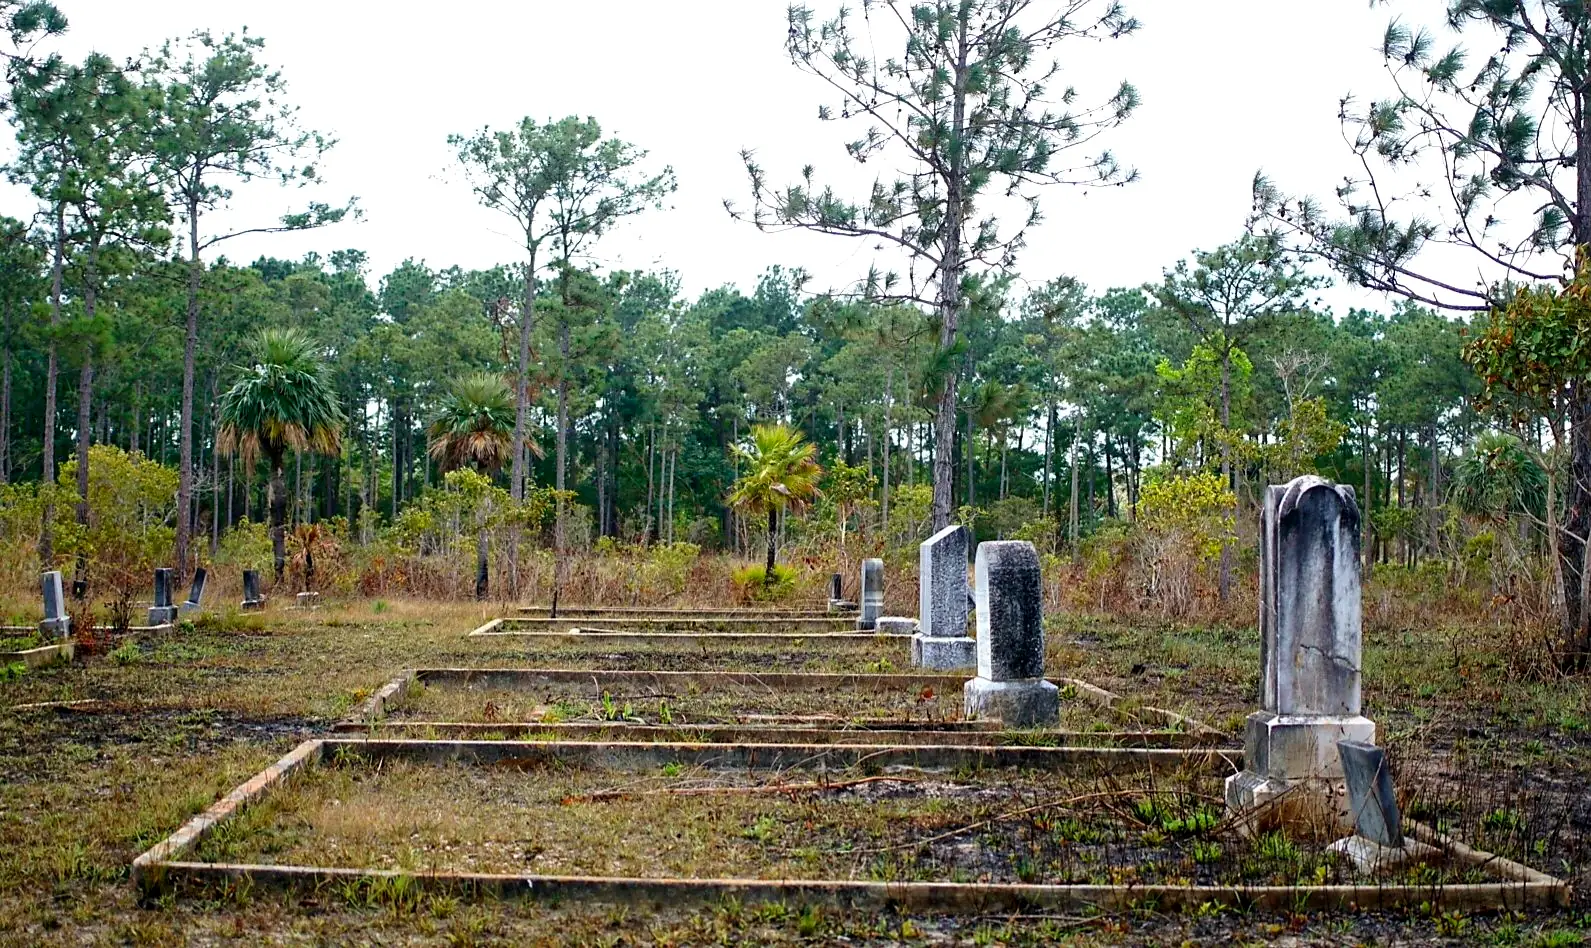
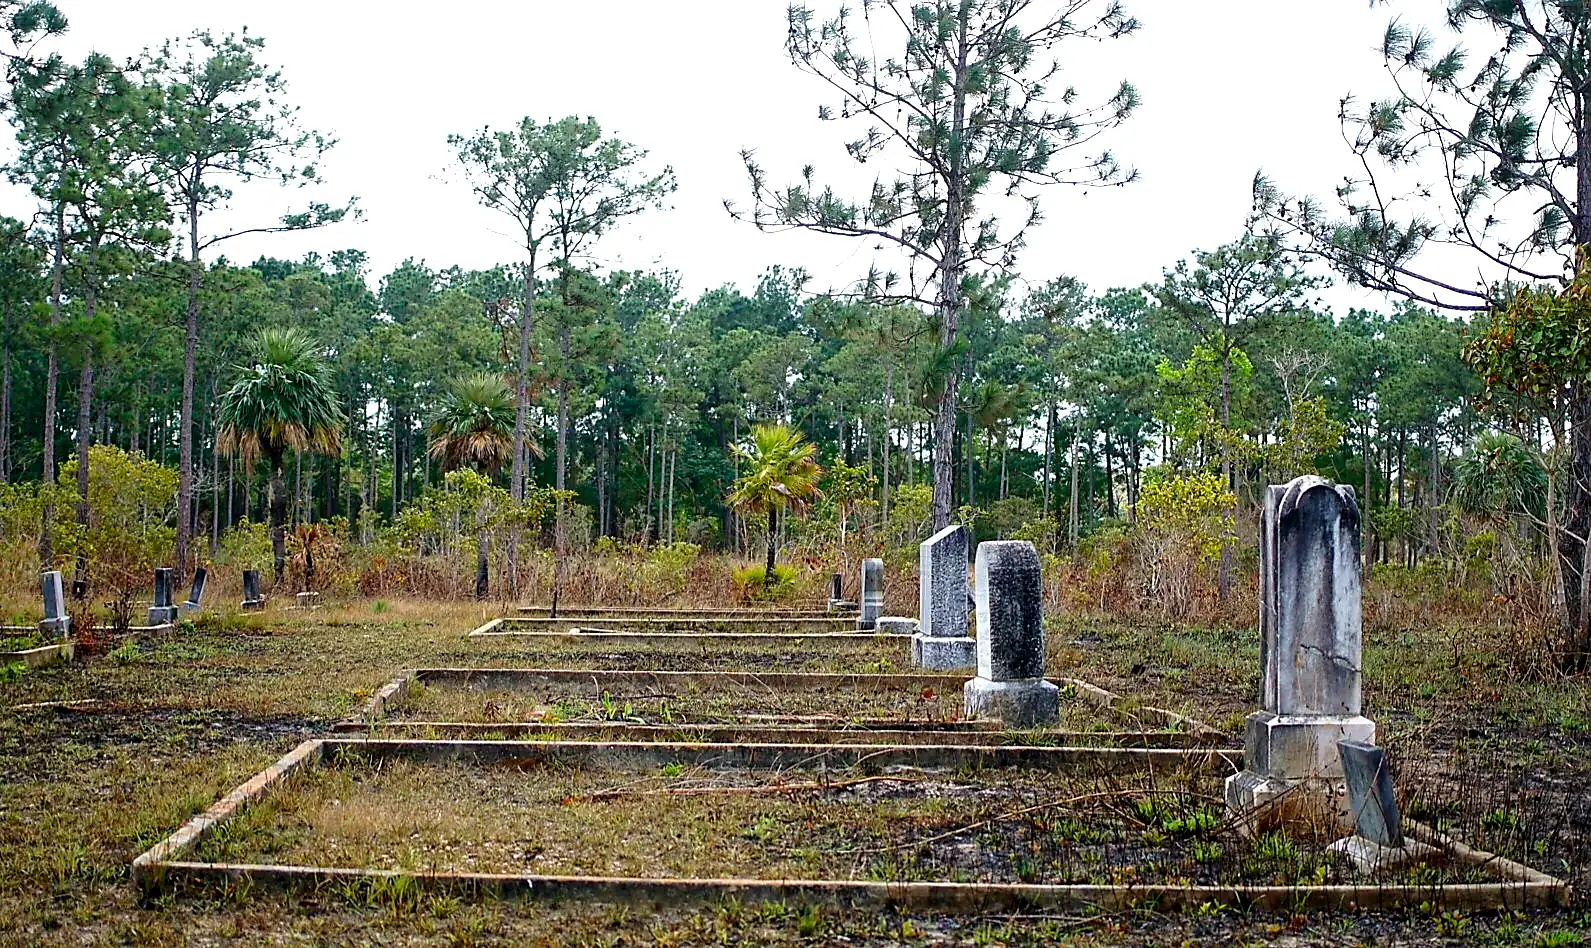
Homepage hero: sharpen all slides, darken the two cemetery slides
Claude-Session: https://claude.ai/code/session_01VX1CsNVSnvEj918XZ42krN

diff --git a/index.md b/index.md
@@ -28,6 +28,10 @@ body-class: homepage
   .homepage-hero .hero-slide.active {
     opacity: 1;
   }
+  /* Busy photos: darken a little more so the logline stays readable */
+  .homepage-hero .hero-slide-dim {
+    filter: brightness(0.75);
+  }
   .hero-overlay {
     position: absolute;
     inset: 0;
@@ -377,7 +381,7 @@ body-class: homepage
     <img src="/assets/img/american-cemetery-cross.webp" alt=""
     width="1920" height="1080"
     loading="lazy" fetchpriority="low"
-    class="hero-slide"
+    class="hero-slide hero-slide-dim"
     data-caption="One of the island&#39;s American cemeteries.">
     <img src="/assets/img/presidio-modelo.webp" alt=""
     width="1920" height="1080"
@@ -402,7 +406,7 @@ body-class: homepage
     <img src="/assets/img/american-cemetery-rows.webp" alt=""
     width="1920" height="1080"
     loading="lazy" fetchpriority="low"
-    class="hero-slide"
+    class="hero-slide hero-slide-dim"
     data-caption="One of the island&#39;s American cemeteries.">
     <img src="/assets/img/sierra-farm.webp" alt=""
     width="1920" height="1080"
